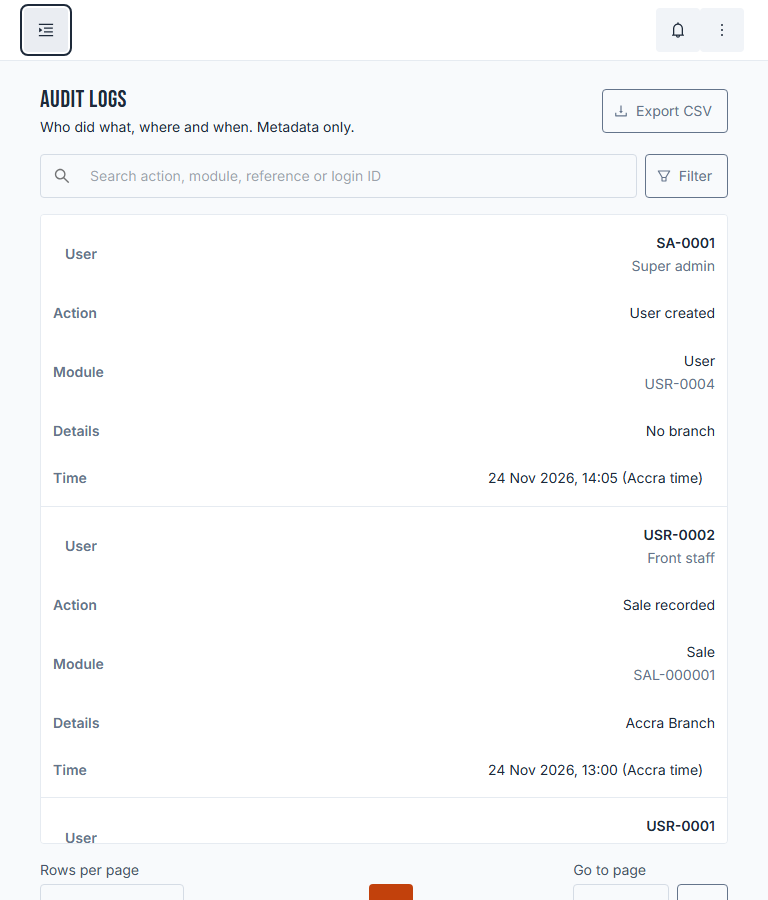
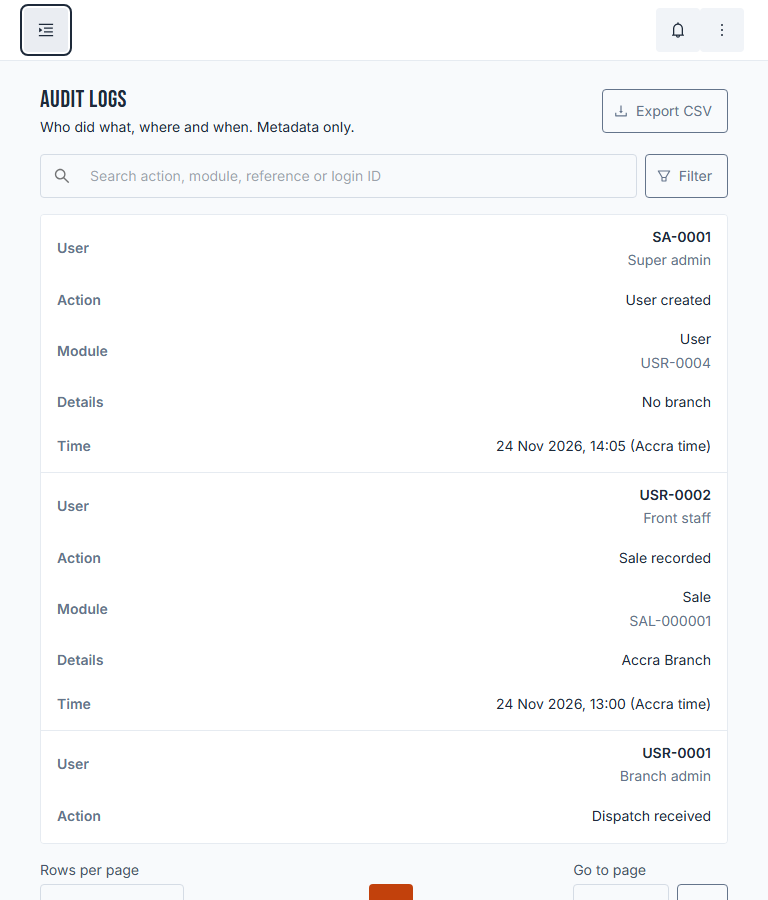
fix(UI.9): phone table cards as two fixed columns with one padding, compact search plus Filters row, wrapping pagination, screenshots
Claude-Session: https://claude.ai/code/session_01S6SBW9uKofBahmXryQdn1H

diff --git a/src/components/ui/DataTable.tsx b/src/components/ui/DataTable.tsx
@@ -60,6 +60,7 @@ const cardLabel = {
   fontWeight: 600,
   color: 'text.secondary',
   textAlign: 'left',
+  justifySelf: 'start',
 } as const;
 const ariaSort = { asc: 'ascending', desc: 'descending' } as const;
 
@@ -225,16 +226,29 @@ export function DataTable<Row>({
                 borderColor: 'divider',
                 py: 0.5,
               },
+              // Two fixed columns: the label at the same x in every row, the value right-aligned and wrapping.
               '& tbody td': {
-                display: 'flex',
-                flexDirection: 'row',
+                display: 'grid',
+                gridTemplateColumns: '38% minmax(0, 1fr)',
+                columnGap: 2,
                 alignItems: 'center',
-                justifyContent: 'space-between',
-                gap: 2,
-                textAlign: 'right',
+                minHeight: 44,
+                py: 0.75,
+                px: 2,
                 border: 0,
+                textAlign: 'right',
+                overflowWrap: 'anywhere',
               },
-              '& tbody td[colspan]': { display: 'table-cell' },
+              // The theme pads the first and last cell of a row more: cards use one padding for every row.
+              '& tbody tr td.MuiTableCell-root:first-of-type, & tbody tr td.MuiTableCell-root:last-of-type':
+                {
+                  pl: 2,
+                  pr: 2,
+                },
+              '& tbody td > *': { margin: 0 }, // right-aligned cells push children with auto margins in the theme
+              '& tbody td.MuiTableCell-paddingCheckbox': { display: 'block', textAlign: 'left' },
+              '& tbody td > span:last-child': { justifySelf: 'end', textAlign: 'right' },
+              '& tbody td[colspan]': { display: 'table-cell', px: 2 },
             },
           })}
         >

diff --git a/src/components/ui/FilterForm.tsx b/src/components/ui/FilterForm.tsx
@@ -34,21 +34,14 @@ export function FilterForm({
   if (compact) {
     return (
       <Stack component="form" role="search" onSubmit={submit} sx={{ gap: 1.5 }}>
-        {search}
-        <Stack direction="row" sx={{ gap: 1 }}>
+        {/* One compact row: the search field (Enter searches) and the Filters button beside it. */}
+        <Stack direction="row" sx={{ gap: 1, alignItems: 'flex-end' }}>
+          <Box sx={{ flex: 1, minWidth: 0 }}>{search}</Box>
           {children && (
-            <Button
-              variant="secondary"
-              icon={SlidersHorizontal}
-              onClick={() => setOpen(true)}
-              sx={{ flex: 1 }}
-            >
+            <Button variant="secondary" icon={SlidersHorizontal} onClick={() => setOpen(true)}>
               Filters
             </Button>
           )}
-          <Button type="submit" variant="secondary" icon={Search} sx={{ flex: 1 }}>
-            {submitLabel}
-          </Button>
         </Stack>
         <Drawer open={open} onClose={() => setOpen(false)} title="Filters">
           <Stack sx={{ gap: 1.5 }}>

diff --git a/e2e/f4.spec.ts b/e2e/f4.spec.ts
@@ -141,7 +141,13 @@ test('item list: cards, cost from the API, labelled actions, no sideways scroll'
   await openActions(page);
   await tall(page.getByRole('link', { name: 'Add an item' }));
   await page.keyboard.press('Escape');
-  await tall(page.getByRole('button', { name: 'Search', exact: true }));
+  // Desktop has a Search button; phones have the Filters button beside the search field (Enter searches).
+  const search = page.getByRole('button', { name: 'Search', exact: true });
+  await tall(
+    (await search.isVisible())
+      ? search
+      : page.getByRole('button', { name: 'Filters', exact: true }),
+  );
   await tall(page.getByRole('link', { name: 'HP 250 G9' }));
   expect(await sideways(page)).toBeLessThanOrEqual(0);
 });

diff --git a/src/components/ui/Pagination.tsx b/src/components/ui/Pagination.tsx
@@ -72,7 +72,7 @@ export function Pagination({
         component="nav"
         aria-label="Pagination"
         direction="row"
-        sx={{ alignItems: 'center', justifyContent: 'space-between', gap: 1 }}
+        sx={{ alignItems: 'center', justifyContent: 'space-between', flexWrap: 'wrap', gap: 1 }}
       >
         <Button
           variant="secondary"
@@ -82,7 +82,7 @@ export function Pagination({
         >
           Previous
         </Button>
-        <Typography aria-current="page" variant="subtitle1" component="span">
+        <Typography aria-current="page" variant="subtitle1" component="span" noWrap>
           Page {page} of {pageCount}
         </Typography>
         <Button
